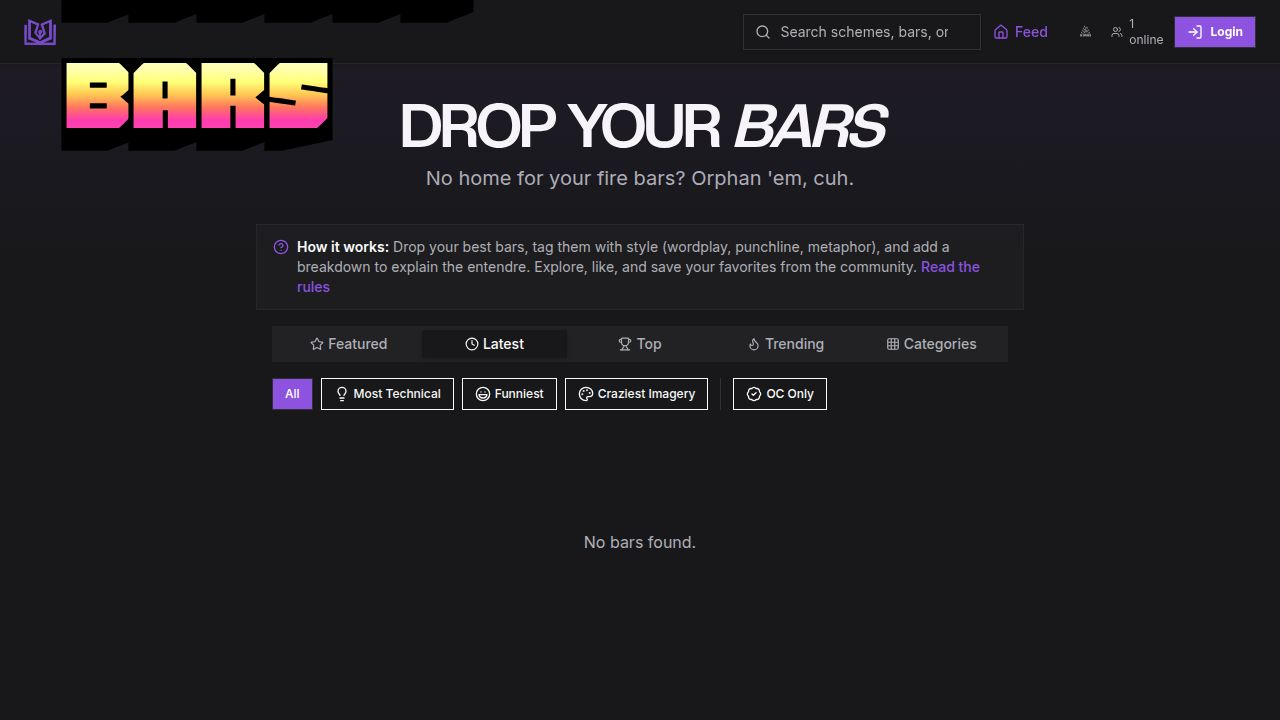
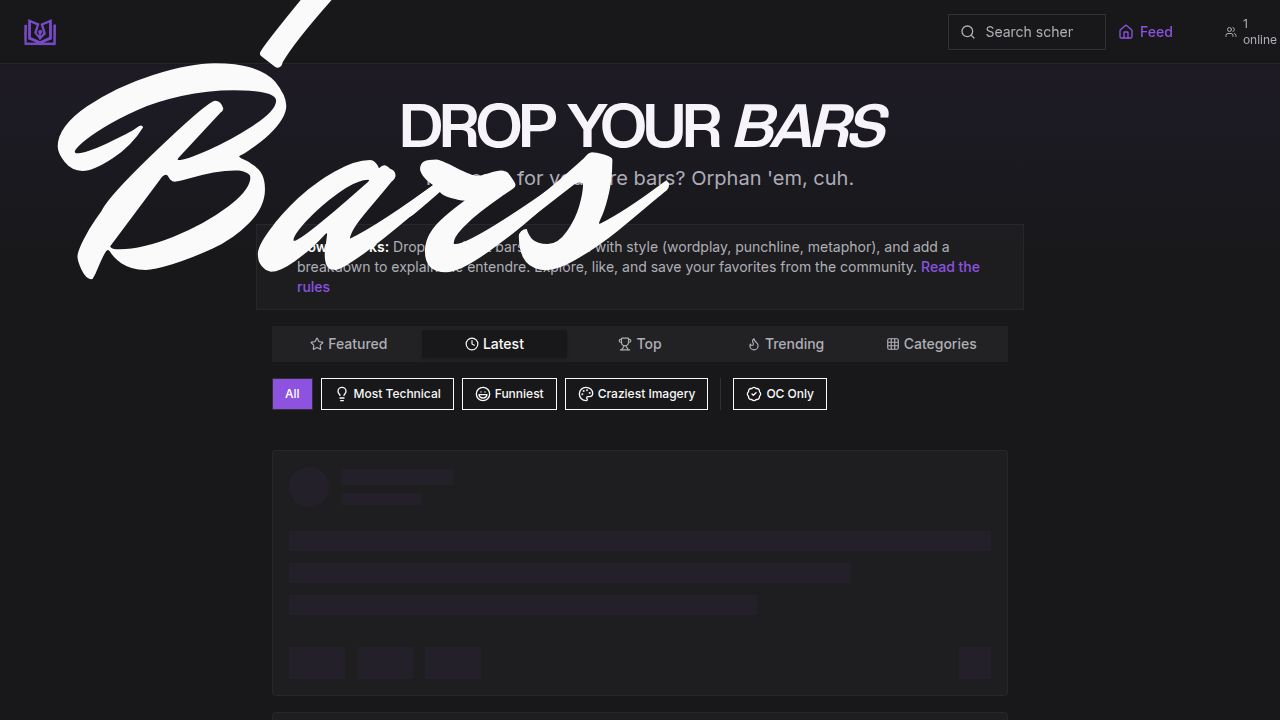
Adjust font sizes for improved readability across devices
Update font sizes in navigation components for better responsiveness on desktop and mobile, fixing issues with overly large text.

Replit-Commit-Author: Agent
Replit-Commit-Session-Id: 9b54b76e-13fc-4fe8-93a5-90ab2fbf1e24
Replit-Commit-Checkpoint-Type: full_checkpoint
Replit-Commit-Event-Id: b8baf4f3-8031-449e-90b0-71c67e39b680
Replit-Commit-Screenshot-Url: https://storage.googleapis.com/screenshot-production-us-central1/ceffc5c3-e952-4163-a449-5ae4e89adb8e/9b54b76e-13fc-4fe8-93a5-90ab2fbf1e24/7GVHrmW
Replit-Helium-Checkpoint-Created: true

Changed region(s): [[0.0312, 0.0, 0.5312, 0.3972], [0.5938, 0.0, 1.0, 0.0917], [0.4375, 0.7333, 0.5312, 0.7639]]

diff --git a/client/src/components/BottomNav.tsx b/client/src/components/BottomNav.tsx
@@ -150,10 +150,10 @@ export function BottomNav({ onNewMessage }: BottomNavProps) {
                     />
                     <span 
                       className={cn(
-                        "font-medium transition-colors",
+                        "text-lg font-medium transition-colors",
                         menuSection === "orphanbars" ? "text-primary-foreground" : "text-primary-foreground/70"
                       )} 
-                      style={{ fontFamily: 'var(--font-logo)', fontSize: '300px' }}
+                      style={{ fontFamily: 'var(--font-logo)' }}
                     >Orphan Bars</span>
                   </button>
                   

diff --git a/client/src/components/Navigation.tsx b/client/src/components/Navigation.tsx
@@ -31,7 +31,7 @@ export default function Navigation() {
           <Link href="/">
             <div className="flex items-center gap-2 cursor-pointer hover:opacity-80 transition-opacity">
               <img src={headerLogo} alt="" className="h-8 w-8" />
-              <span className="font-logo leading-none" style={{ fontSize: '300px' }}>Orphan Bars</span>
+              <span className="font-logo leading-none text-5xl xl:text-6xl">Orphan Bars</span>
             </div>
           </Link>
           <SearchBar className="w-64" />
